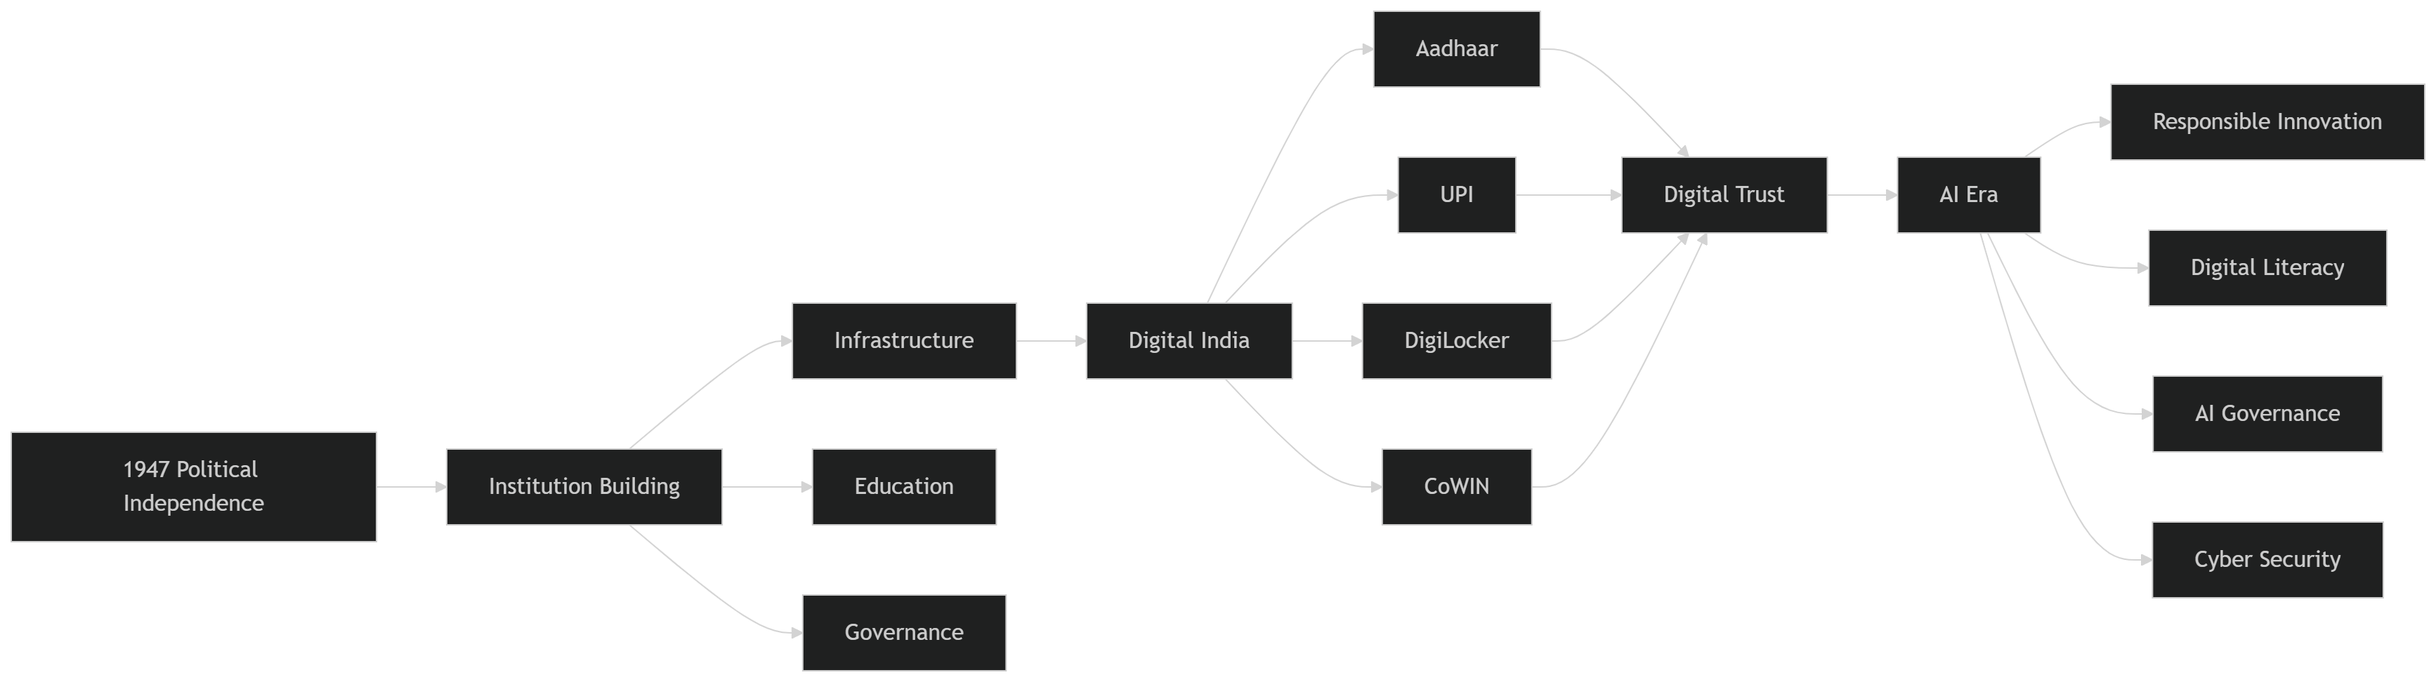
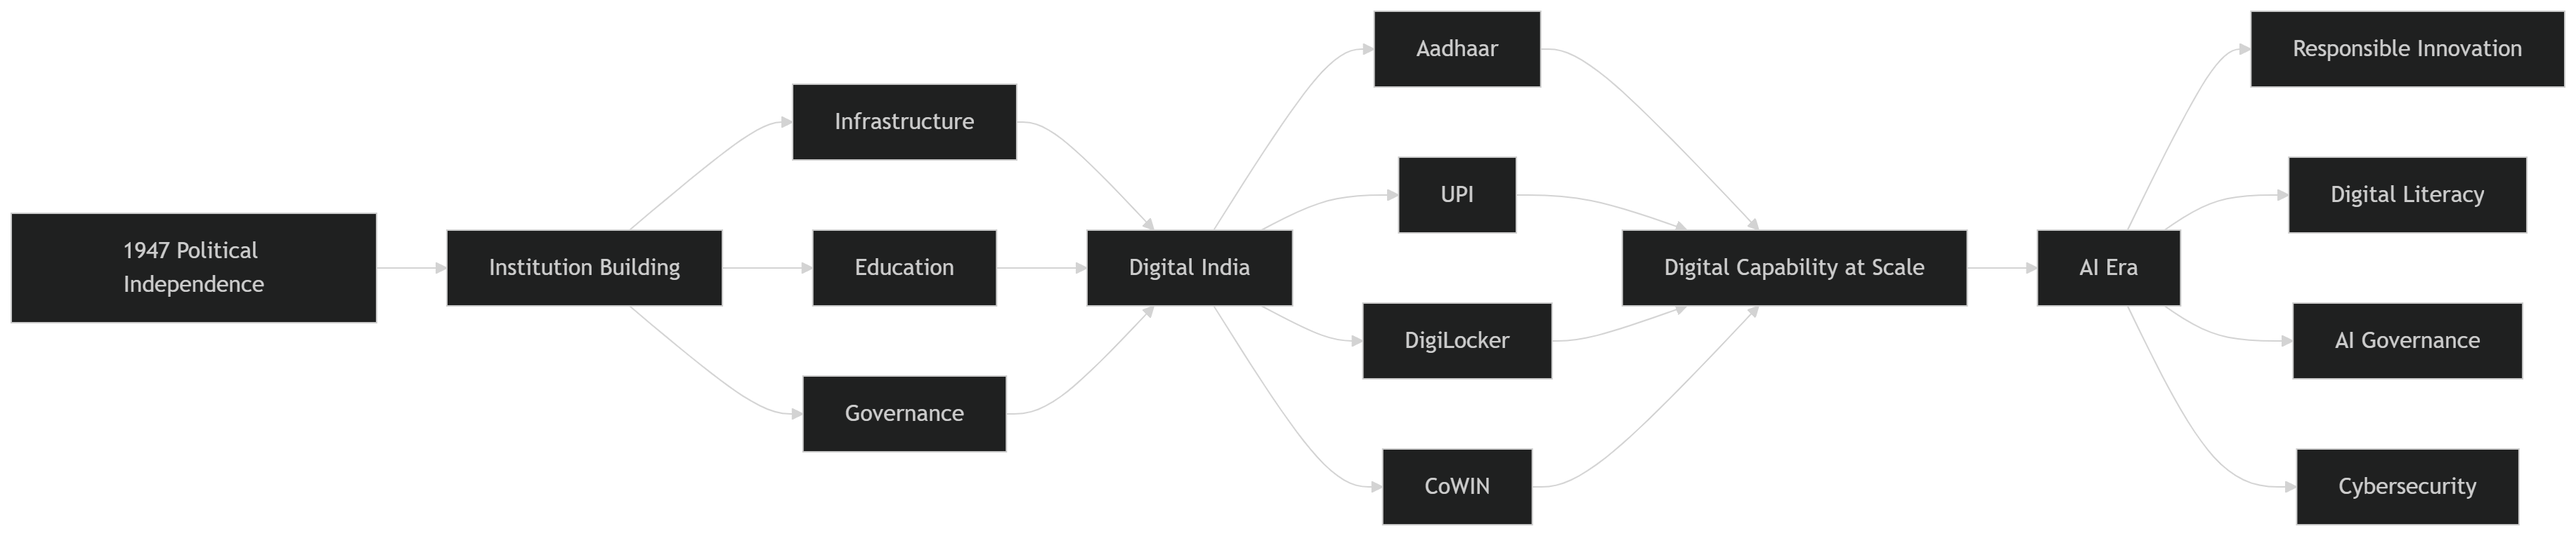
Correction in post

diff --git a/_posts/2026-08-15-independence-is-not-an-event-it-is-a-capability.md b/_posts/2026-08-15-independence-is-not-an-event-it-is-a-capability.md
@@ -66,7 +66,7 @@ Artificial intelligence built on top of Aadhaar-scale identity and UPI-scale tra
 
 None of this is a criticism of what has been built. It is simply what capability-building has always demanded: that today's achievement be treated as tomorrow's foundation rather than tomorrow's finish line. The systems that got India this far were themselves built by people who inherited an earlier, incomplete independence and refused to treat it as complete.
 
-![The Lineage No One Had Mapped](https://aniruddhawrites.github.io//assets/img/capability-evolution.png align="center")
+![Capability Evolution](https://aniruddhawrites.github.io/assets/img/capability-evolution.png)
 
 >India's journey from political independence to the AI era can be viewed as a continuous process of capability-building. The foundation laid after 1947 through institutions, infrastructure, education, and governance created the conditions for a new layer of digital public infrastructure. Systems such as Aadhaar, UPI, DigiLocker, and CoWIN became meaningful not simply because they were launched, but because they evolved into trusted capabilities used at national scale. The next stage is not just about adopting AI, but about building the trust, literacy, governance, security, and responsible innovation needed to sustain that capability.
 
